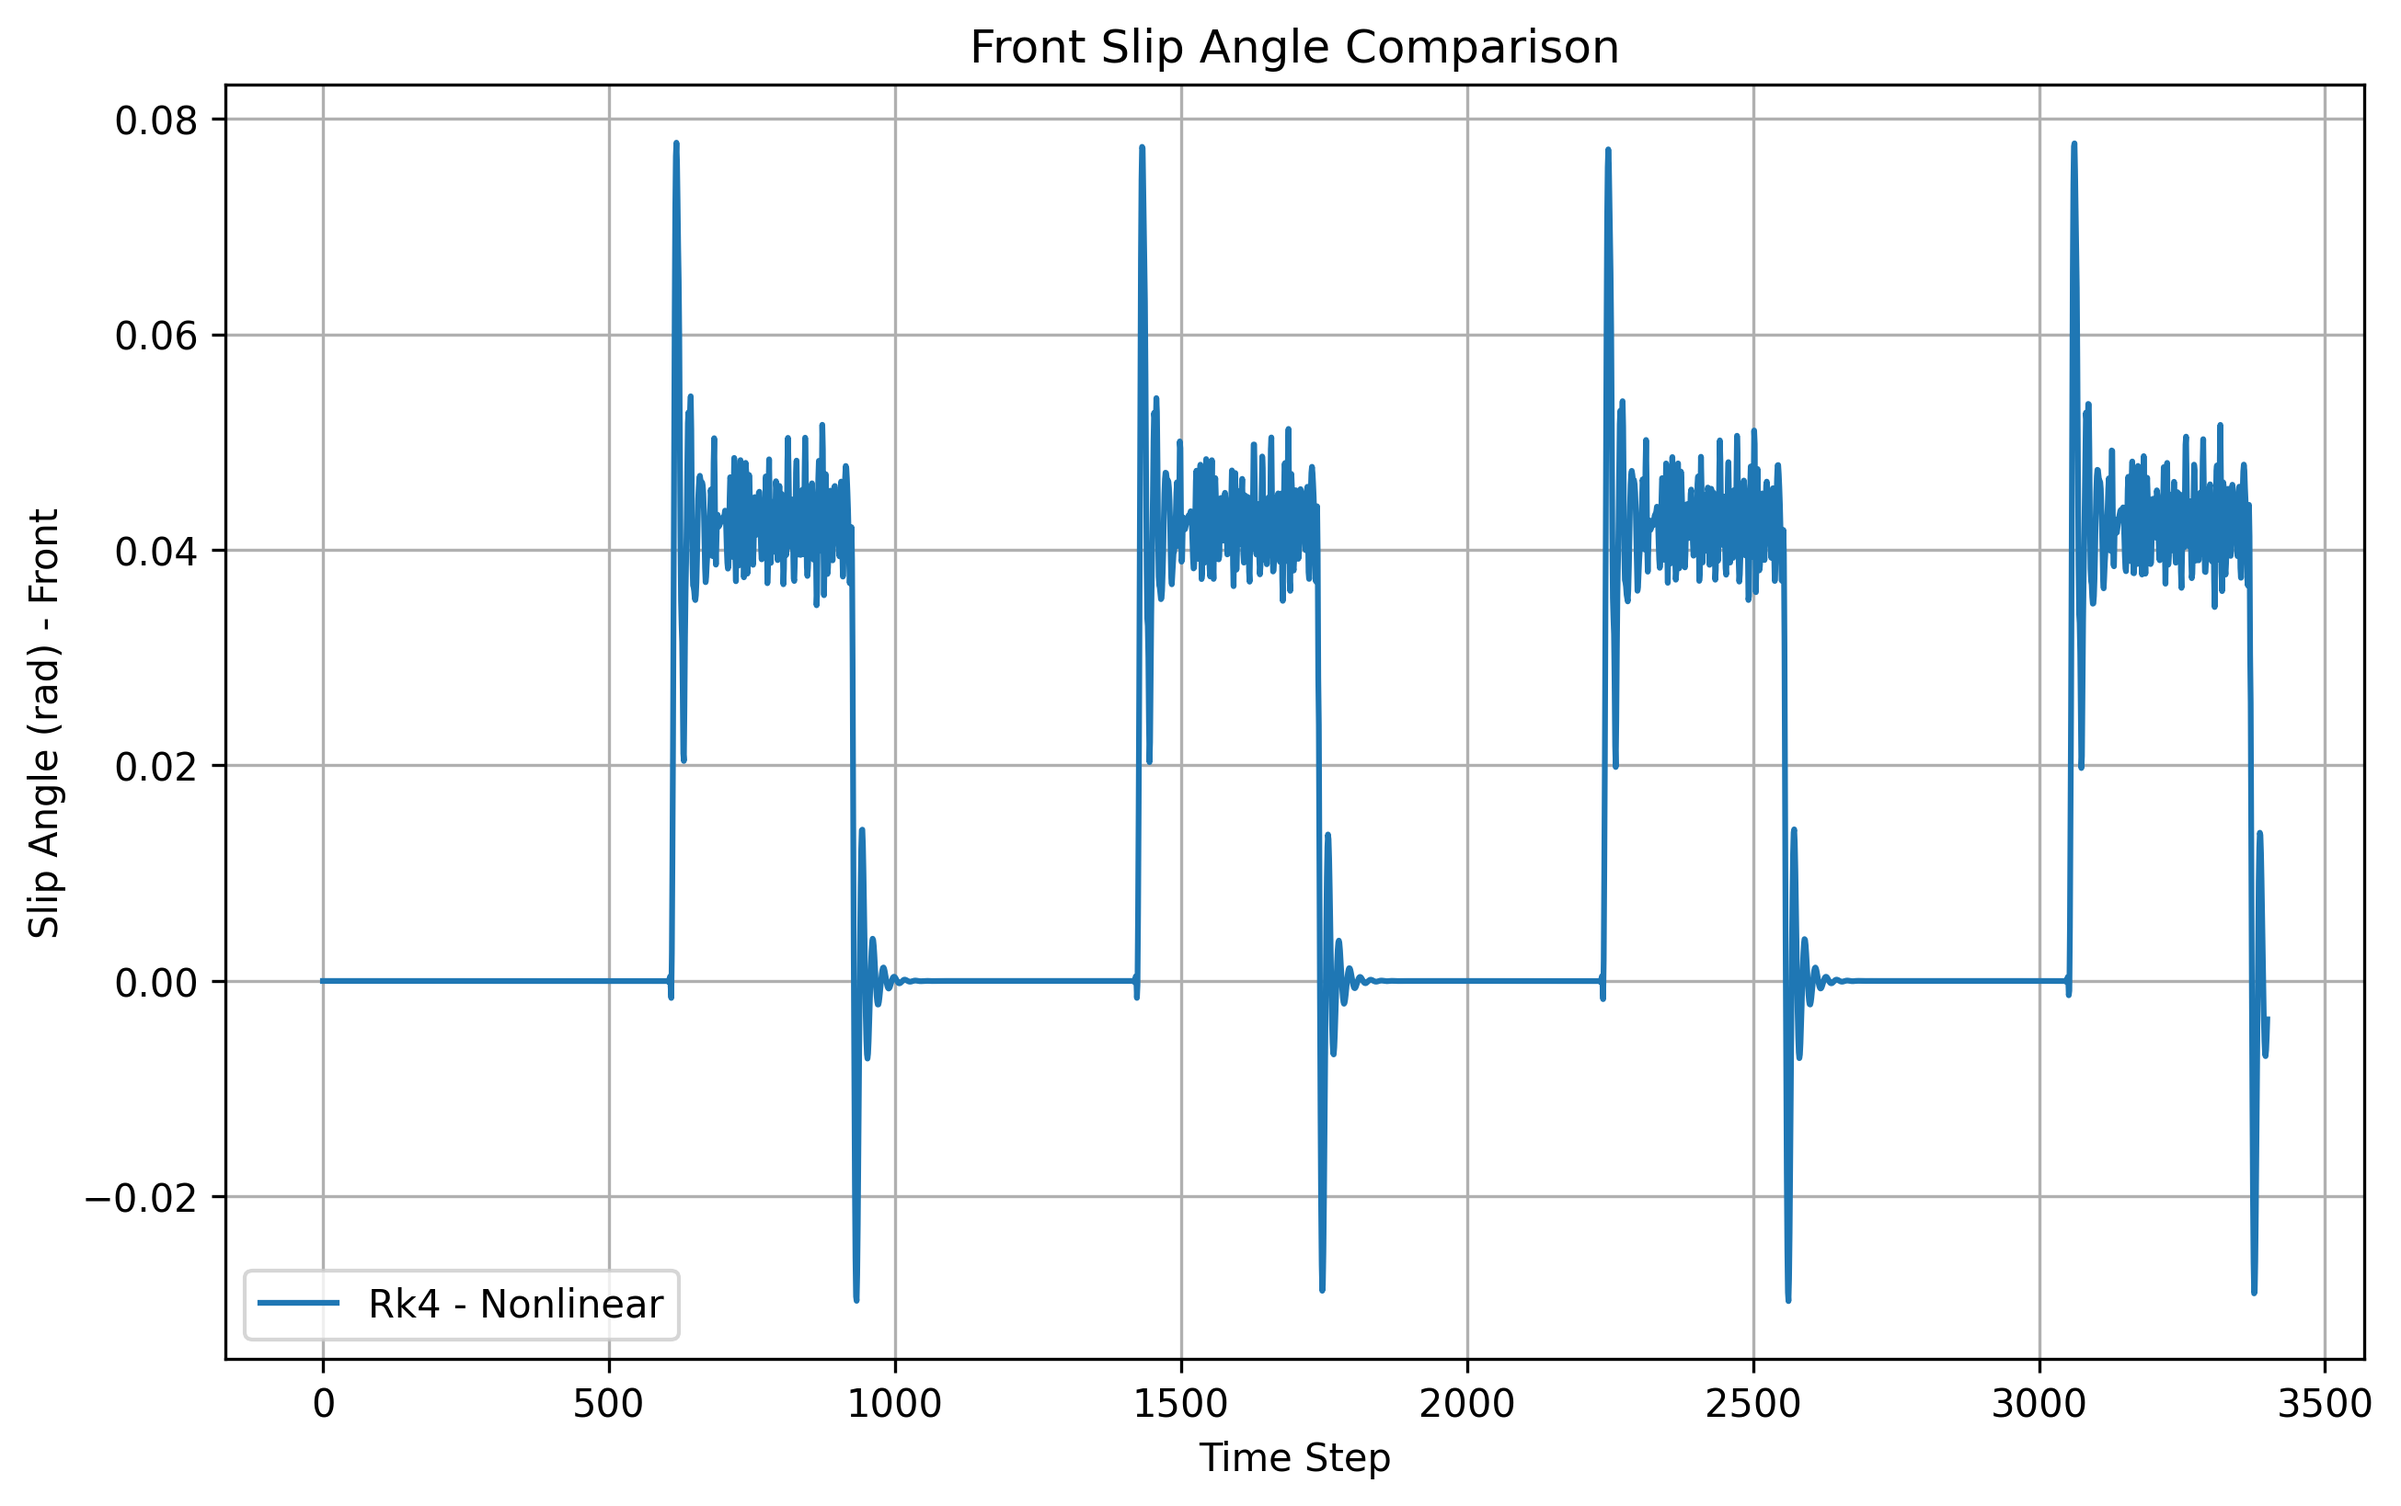
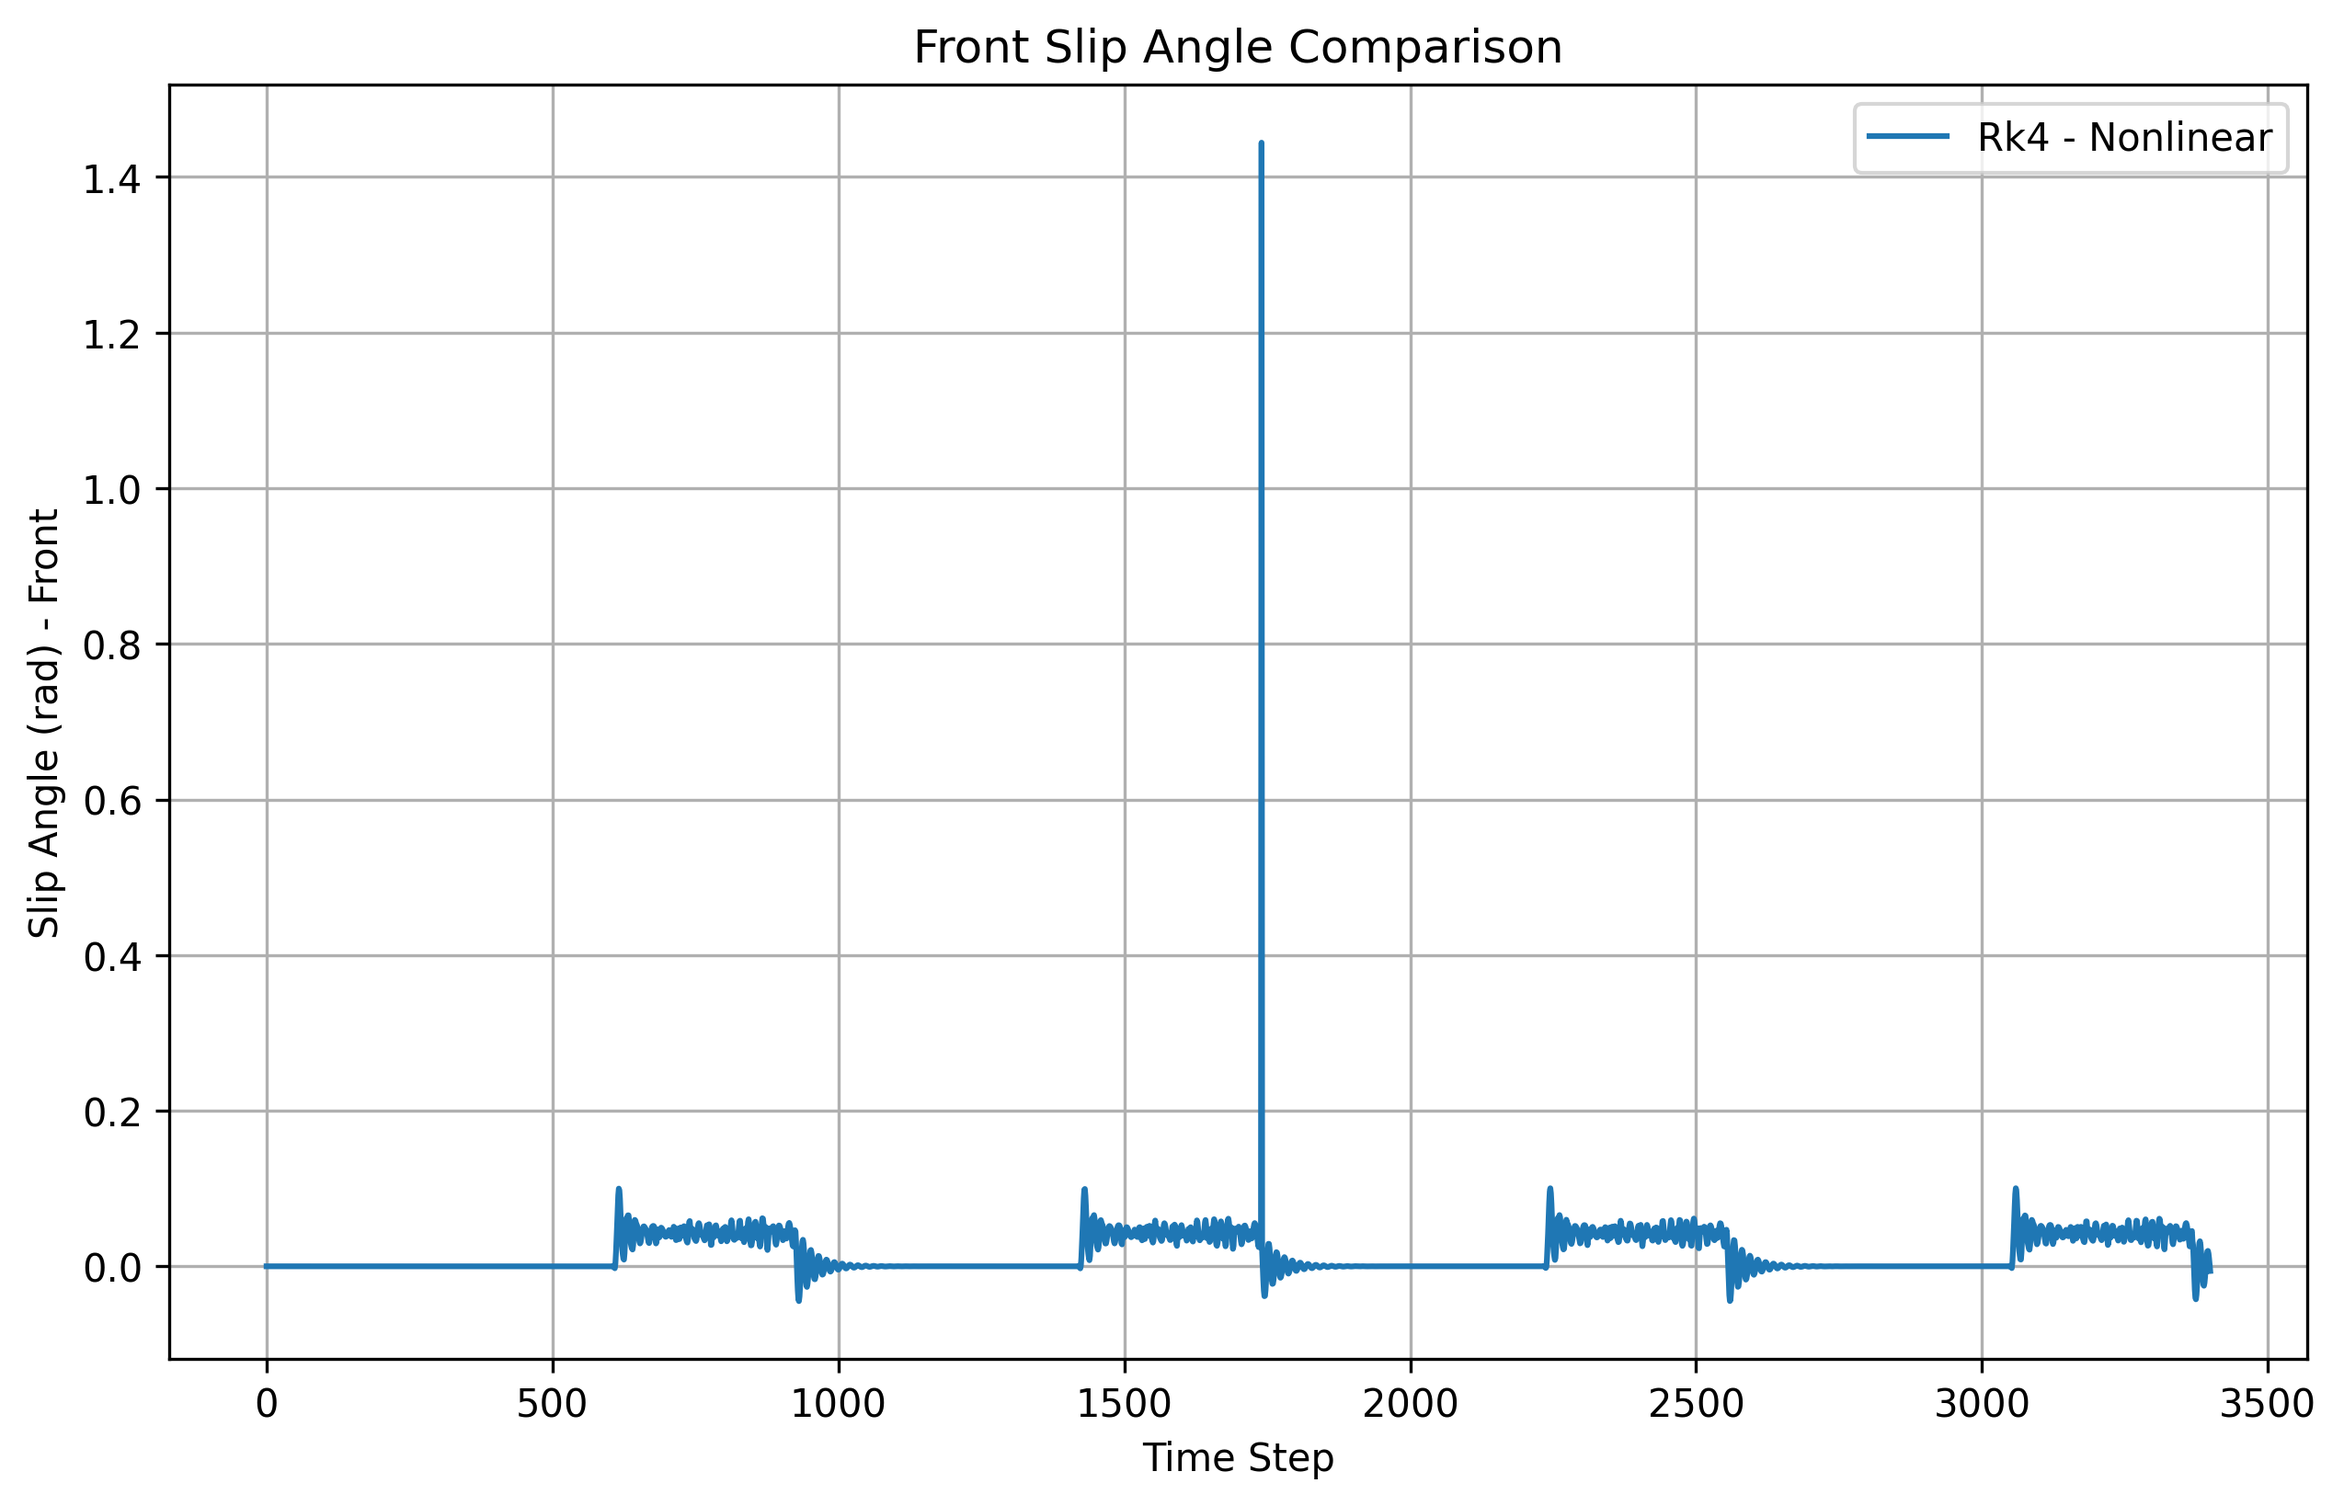
changed stanley parameters and achieved best speed for ex 03

diff --git a/assignment_05/main.py b/assignment_05/main.py
@@ -18,7 +18,7 @@ sim_time = 170    # Simulation duration in seconds
 steps = int(sim_time / dt)  # Simulation steps
 
 # Control references
-target_speed =20.0
+target_speed =26.2
 
 # Vehicle parameters
 lf = 1.156          # Distance from COG to front axle (m)
@@ -34,7 +34,7 @@ long_control_pid = pid.PIDController(kp=1.6, ki=0.85, kd=0.01, output_limits=(-2
 # Create instance of PurePursuit, Stanley and MPC for Lateral Control
 k_pp = 0.1  # Speed proportional gain for Pure Pursuit
 look_ahead = 2.0  # Minimum look-ahead distance for Pure Pursuit
-k_stanley = 1.7  # Gain for cross-track error for Stanley
+k_stanley = 1.9  # Gain for cross-track error for Stanley
 pp_controller = purepursuit.PurePursuitController(wheelbase, max_steer)
 stanley_controller = stanley.StanleyController(k_stanley, lf, max_steer)
 
@@ -174,26 +174,26 @@ def run_simulation(ax, steer, dt, integrator, model, steps=500):
         # Compute the distance between the actual position and the projection point in order to get the lateral error (Y coord)
         local_error = point_transform(prj, actual_position, sim.theta)
 
-        # if(abs(local_error[1]) > 1.0):
-        #     print("Lateral error is higher than 1.0... ending the simulation")
-        #     print("Lateral error: ", local_error[1])
-        #     break
+        if(abs(local_error[1]) > 1.0):
+            print("Lateral error is higher than 1.0... ending the simulation")
+            print("Lateral error: ", local_error[1])
+            break
 
         ### PURE PURSUIT
 
-        # The following lines compute the target position in global coords, based on the lookahead distance
-        Lf = k_pp * sim.vx + look_ahead # compute the lookahead distance, depending on the current velocity (the look_ahead variable is the minimum value of Lf)
-        s_pos = path_spline.cur_s + Lf # add calculated distance to the current longitudinal position
-        trg = path_spline.calc_position(s_pos) # get global target coords <x,y>
+        # # The following lines compute the target position in global coords, based on the lookahead distance
+        # Lf = k_pp * sim.vx + look_ahead # compute the lookahead distance, depending on the current velocity (the look_ahead variable is the minimum value of Lf)
+        # s_pos = path_spline.cur_s + Lf # add calculated distance to the current longitudinal position
+        # trg = path_spline.calc_position(s_pos) # get global target coords <x,y>
 
-        # Adjust CoG position to the rear axle position for PP
-        pp_position = actual_position[0] + lr * math.cos(sim.theta), actual_position[1] + lr * math.sin(sim.theta)
+        # # Adjust CoG position to the rear axle position for PP
+        # pp_position = actual_position[0] + lr * math.cos(sim.theta), actual_position[1] + lr * math.sin(sim.theta)
 
-        # Compute distance between vehicle rear axle and lookahead point, both expressed in global coords
-        target_pos_local = point_transform([trg[0], trg[1]], pp_position, sim.theta)
+        # # Compute distance between vehicle rear axle and lookahead point, both expressed in global coords
+        # target_pos_local = point_transform([trg[0], trg[1]], pp_position, sim.theta)
 
-        # Calculate steer to track path
-        steer = pp_controller.compute_steering_angle(target_pos_local, sim.theta, Lf)
+        # # Calculate steer to track path
+        # steer = pp_controller.compute_steering_angle(target_pos_local, sim.theta, Lf)
 
         ### STANLEY
 

diff --git a/assignment_05/stanley.py b/assignment_05/stanley.py
@@ -49,7 +49,7 @@ class StanleyController:
         cross_track_correction = math.atan2(self.k * cross_track_error, effective_speed)
 
         # Total steering angle
-        delta = 1.4 * heading_error + 4.5 * cross_track_correction
+        delta = 1.9 * heading_error + 9.5 * cross_track_correction
 
         # Saturate the steering angle within the maximum limits
         delta = max(-self.max_steer, min(delta, self.max_steer))
